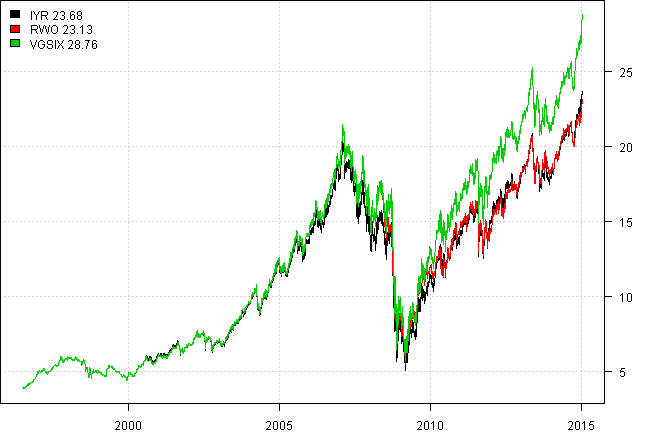
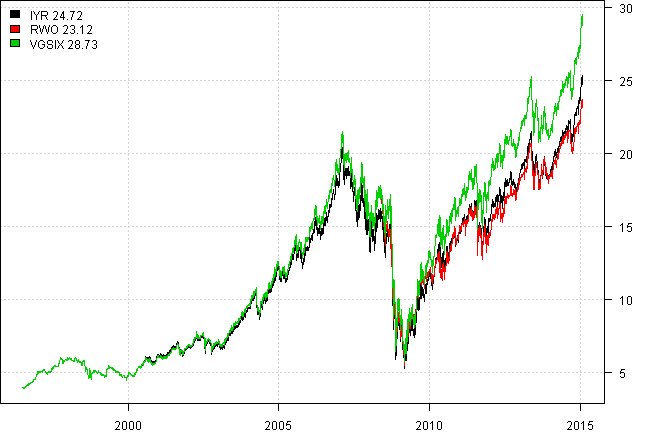
update blog post

diff --git a/_posts/2014-11-14-Data-Proxy.md b/_posts/2014-11-14-Data-Proxy.md
@@ -4,7 +4,7 @@ title: Data Proxy - extending time series with proxies
 ---
 
 
-To install [Systematic Investor Toolbox (SIT)](https://github.com/systematicinvestor/SIT) please visit [About](/about) page.
+To install [Systematic Investor Toolbox (SIT)](https://github.com/systematicinvestor/SIT) please visit [About](',base.url,'about) page.
 
 
 
@@ -128,7 +128,7 @@ On the all history chart CRB_2 is also different.
 
 |      |CRB Price |CRB Total |CRB_2 Price |CRB_2 Total |DBC Price |DBC Total |GSG Price |GSG Total |
 |:-----|:---------|:---------|:-----------|:-----------|:---------|:---------|:---------|:---------|
-|Mean  | 8.2%     | 8.2%     |11.5%       |11.5%       |-0.9%     |-0.9%     |-7.9%     |-7.9%     |
+|Mean  | 8.2%     | 8.2%     |11.5%       |11.5%       |-0.8%     |-0.8%     |-7.6%     |-7.6%     |
 |StDev |16.3%     |16.3%     |21.5%       |21.5%       |20.9%     |20.9%     |24.9%     |24.9%     |
     
 
@@ -209,8 +209,8 @@ create.proxy = function(tickers, proxy.map.tickers, raw.data = new.env()) {
 |RWX   |      |66%   |67%   |
 |VGSIX |      |      |99%   |
 |      |      |      |      |
-|Mean  | 3.2% |13.1% |13.4% |
-|StDev |25.6% |40.6% |39.4% |
+|Mean  | 3.2% |13.0% |13.3% |
+|StDev |25.5% |40.5% |39.3% |
     
 
 
@@ -218,8 +218,8 @@ create.proxy = function(tickers, proxy.map.tickers, raw.data = new.env()) {
 
 |      |RWX Price |RWX Total |VGSIX Price |VGSIX Total |VNQ Price |VNQ Total |
 |:-----|:---------|:---------|:-----------|:-----------|:---------|:---------|
-|Mean  | 3.2%     | 3.2%     |14.7%       |14.7%       |16.0%     |16.0%     |
-|StDev |25.6%     |25.6%     |28.2%       |28.2%       |35.3%     |35.3%     |
+|Mean  | 3.2%     | 3.2%     |14.6%       |14.6%       |16.0%     |16.0%     |
+|StDev |25.5%     |25.5%     |28.2%       |28.2%       |35.2%     |35.2%     |
     
 
 
@@ -260,8 +260,8 @@ Please use `VNQ` and `VGSIX` to extend REIT ex-U.S.
 |IYR   |      |85%   |99%   |
 |RWO   |      |      |85%   |
 |      |      |      |      |
-|Mean  |14.6% | 9.2% |16.9% |
-|StDev |39.3% |30.0% |42.2% |
+|Mean  |14.7% | 9.2% |16.8% |
+|StDev |39.2% |30.0% |42.1% |
     
 
 
@@ -269,8 +269,8 @@ Please use `VNQ` and `VGSIX` to extend REIT ex-U.S.
 
 |      |IYR Price |IYR Total |RWO Price |RWO Total |VGSIX Price |VGSIX Total |
 |:-----|:---------|:---------|:---------|:---------|:-----------|:-----------|
-|Mean  |14.4%     |14.4%     | 9.2%     | 9.2%     |14.7%       |14.7%       |
-|StDev |29.7%     |29.7%     |30.0%     |30.0%     |28.2%       |28.2%       |
+|Mean  |14.7%     |14.7%     | 9.2%     | 9.2%     |14.6%       |14.6%       |
+|StDev |29.6%     |29.6%     |30.0%     |30.0%     |28.2%       |28.2%       |
     
 
 
@@ -429,7 +429,7 @@ Please use `IYR` and `VGSIX` to extend Global REIT.
 
 |      |GLD Price |GLD Total |GOLD Price |GOLD Total |
 |:-----|:---------|:---------|:----------|:----------|
-|Mean  |12.0%     |12.0%     | 9.4%      | 9.4%      |
+|Mean  |12.1%     |12.1%     | 9.4%      | 9.4%      |
 |StDev |20.3%     |20.3%     |20.1%      |20.1%      |
     
 
@@ -502,8 +502,8 @@ data.proxy <- new.env()
 getSymbols.extra(tickers, src = 'yahoo', from = '1970-01-01', env = data.proxy, raw.data = raw.data, auto.assign = T)
 
 data.proxy.raw = raw.data
-save(data.proxy.raw, file='data.proxy.raw.Rdata',compress='gzip') 
-save(data.proxy, file='data.proxy.Rdata',compress='gzip') 
+save(data.proxy.raw, file='data/data.proxy.raw.Rdata',compress='gzip') 
+save(data.proxy, file='data/data.proxy.Rdata',compress='gzip') 
 {% endhighlight %}
 
 To use saved proxy data to extend historical time series, use `extend.data.proxy` function:
@@ -529,7 +529,7 @@ print(bt.start.dates(data))
 
 
 {% highlight r %}
-extend.data.proxy(data, proxy.filename = 'data.proxy.Rdata')
+extend.data.proxy(data, proxy.filename = 'data/data.proxy.Rdata')
 
 print(bt.start.dates(data))
 {% endhighlight %}
@@ -542,4 +542,4 @@ print(bt.start.dates(data))
     
 
 
-*(this report was produced on: 2015-01-16)*
+*(this report was produced on: 2015-02-02)*
